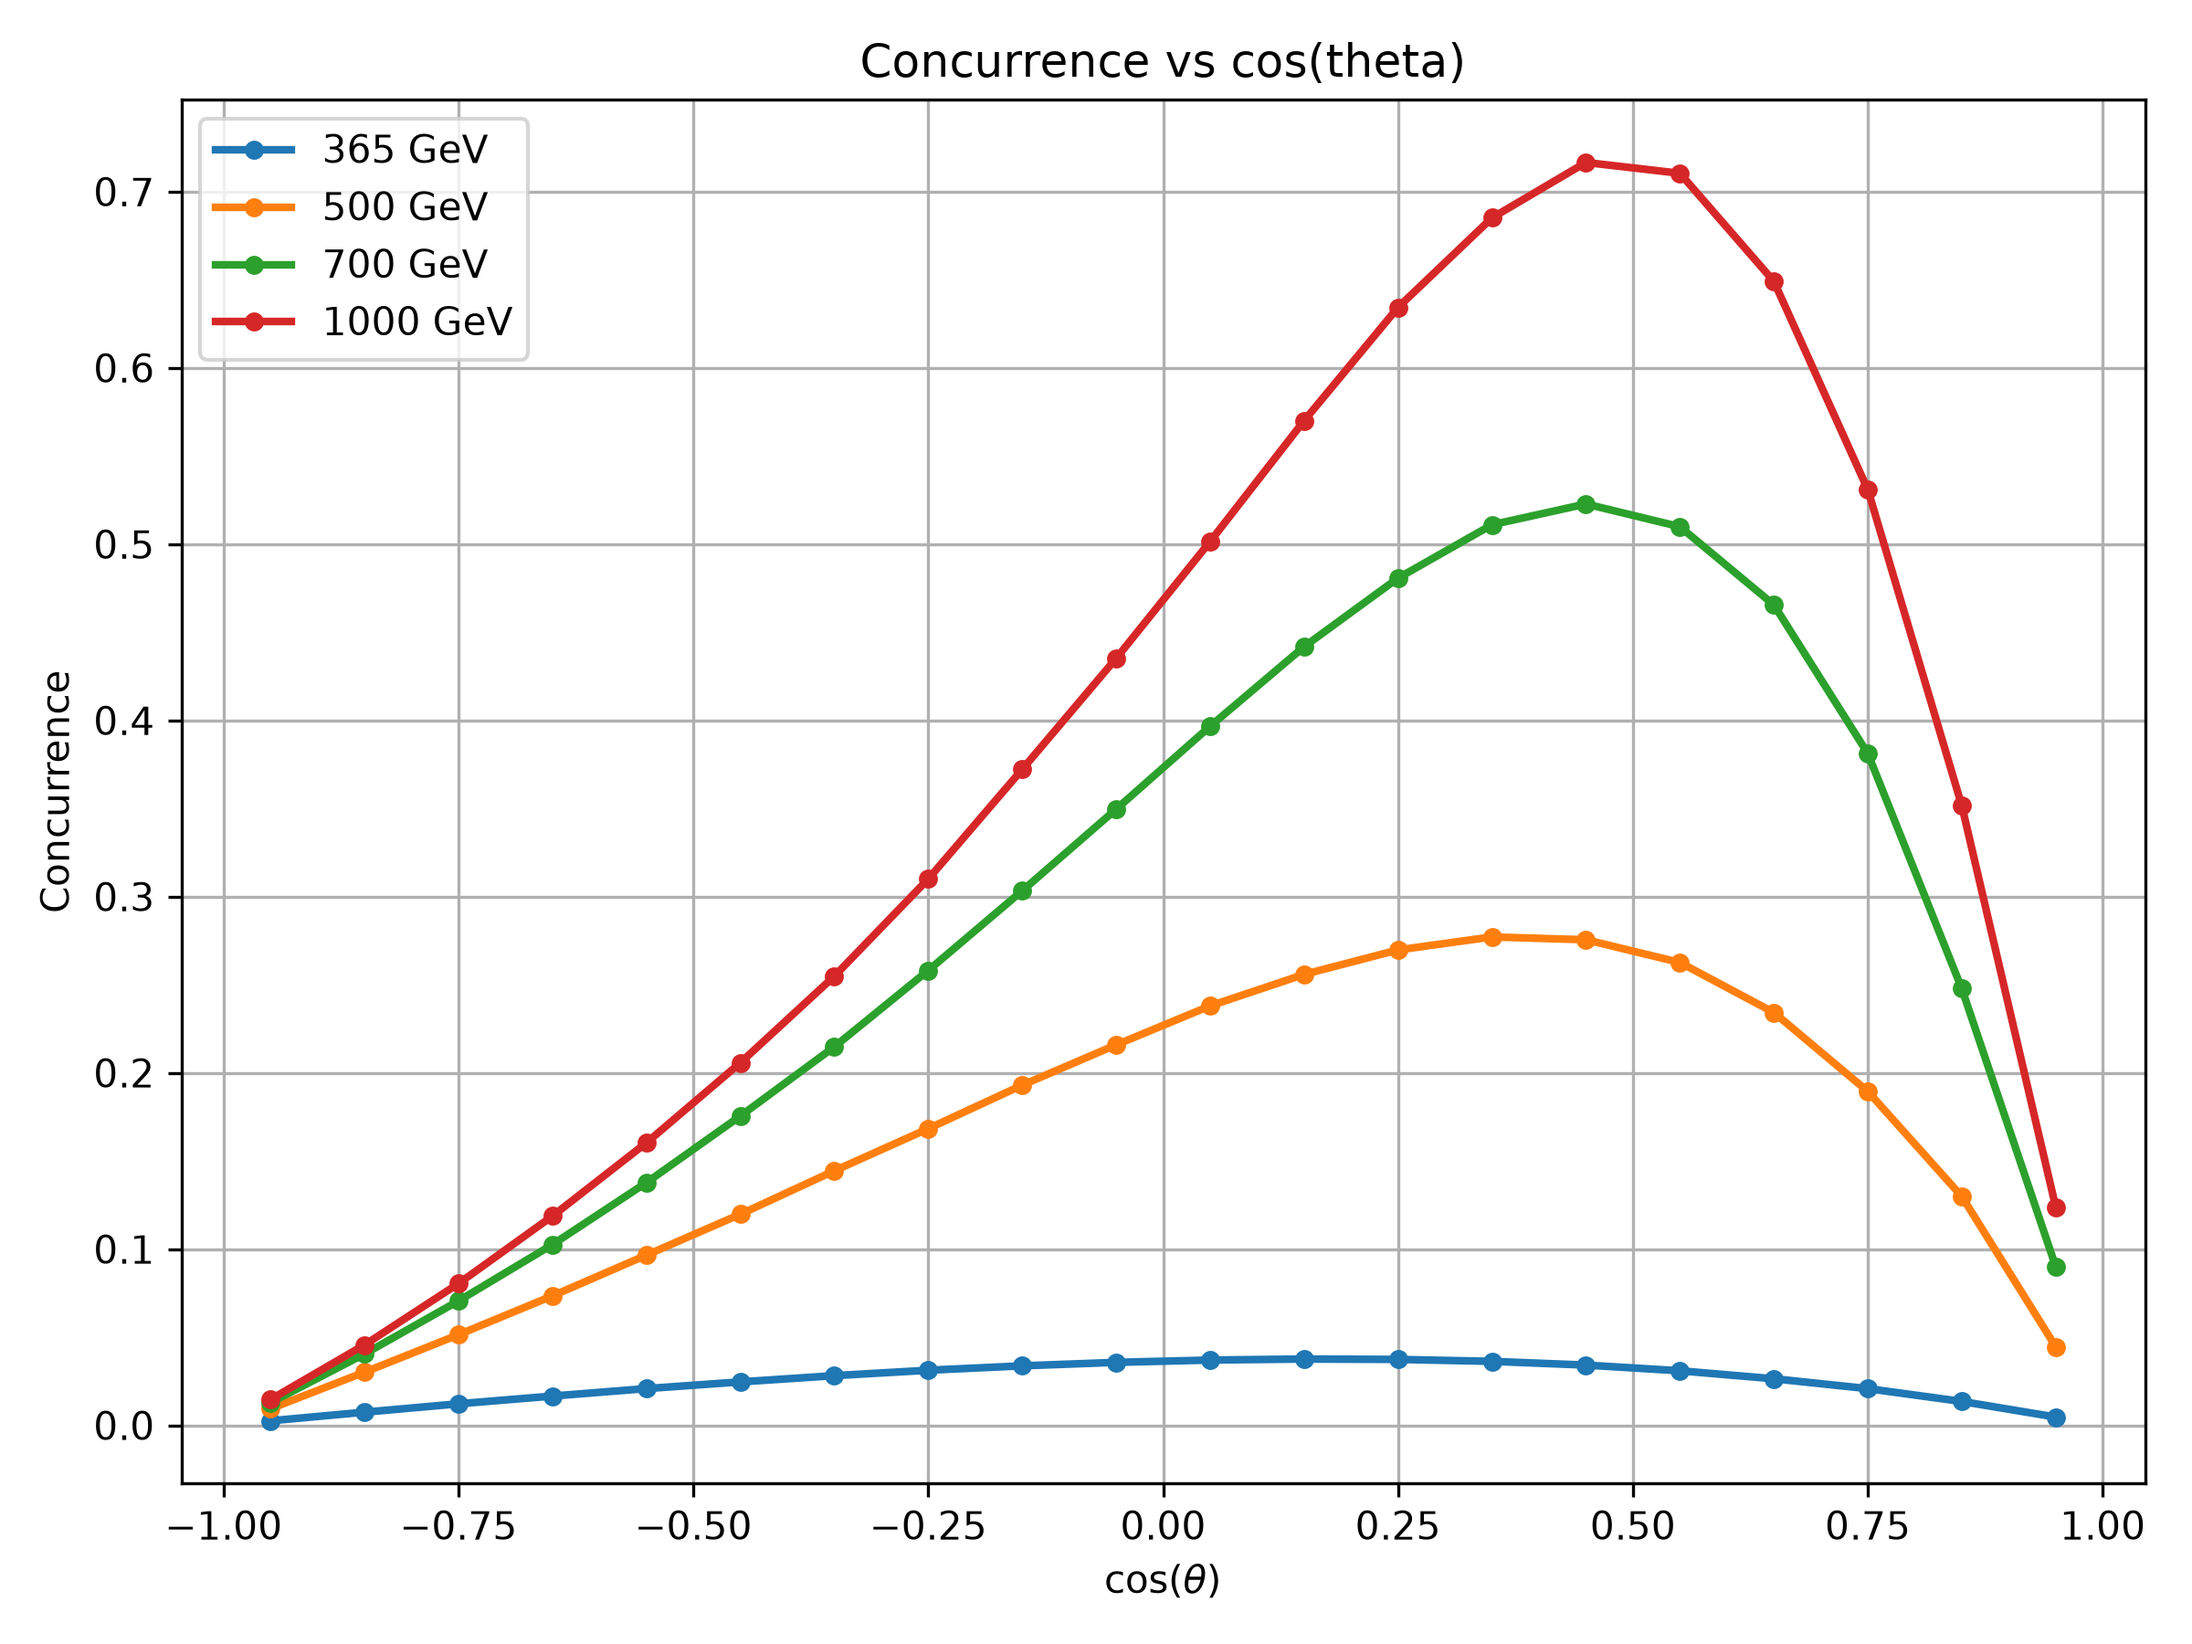
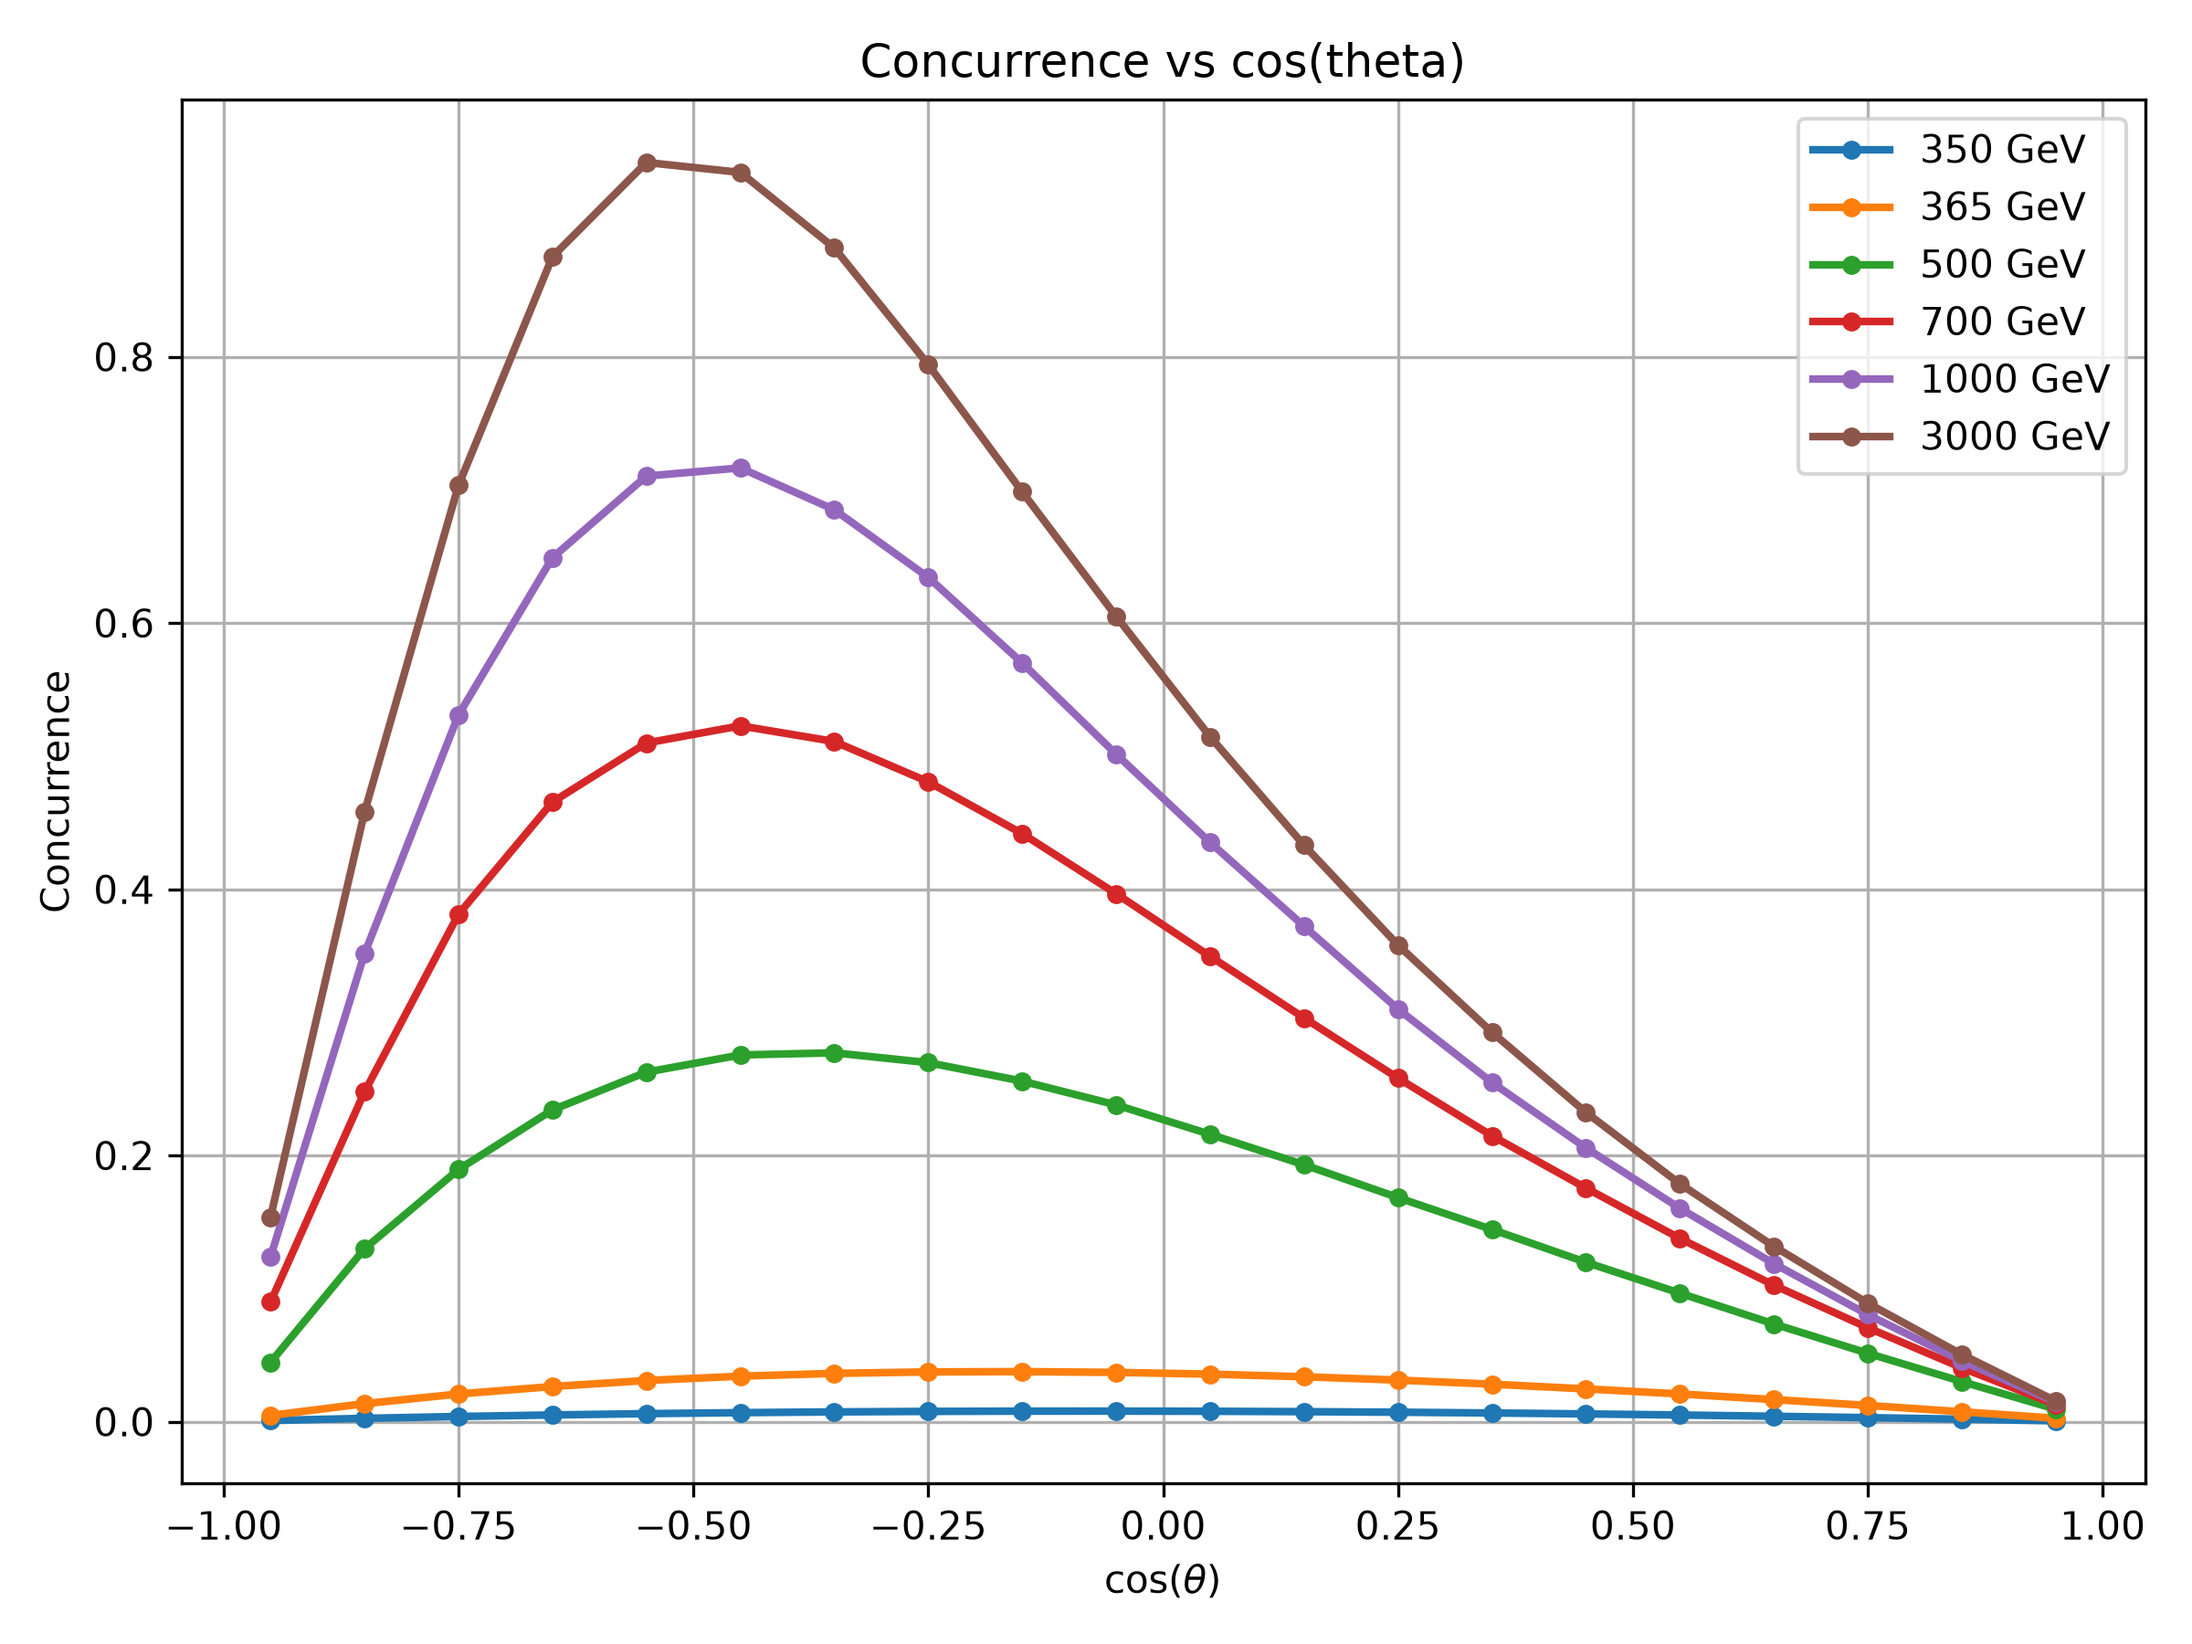
Update energy comparison plots

diff --git a/analysis/analysis09_energy_comparison.py b/analysis/analysis09_energy_comparison.py
@@ -14,13 +14,17 @@ from config import RESULTS_DIR
 # ==========================================================
 # DATASETS
 # ==========================================================
-
 datasets = {
+    "350 GeV": os.path.join(RESULTS_DIR, "350GeV", "event_data.csv"),
     "365 GeV": os.path.join(RESULTS_DIR, "365GeV", "event_data.csv"),
     "500 GeV": os.path.join(RESULTS_DIR, "500GeV", "event_data.csv"),
     "700 GeV": os.path.join(RESULTS_DIR, "700GeV", "event_data.csv"),
     "1000 GeV": os.path.join(RESULTS_DIR, "1000GeV", "event_data.csv"),
+    "3000 GeV": os.path.join(RESULTS_DIR, "3000GeV", "event_data.csv"),
 }
+
+
+
 
 
 # ==========================================================
